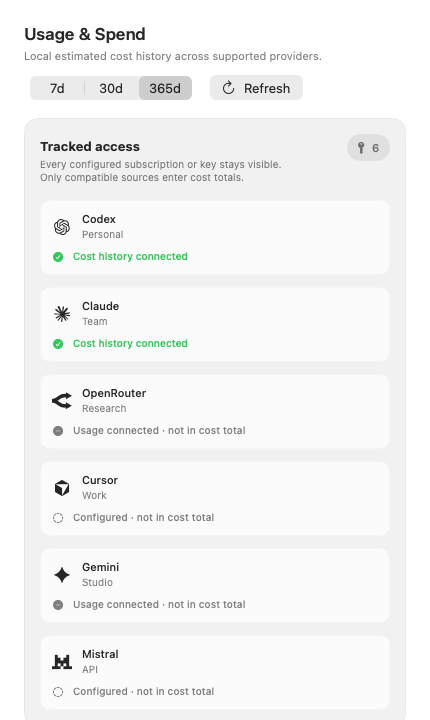
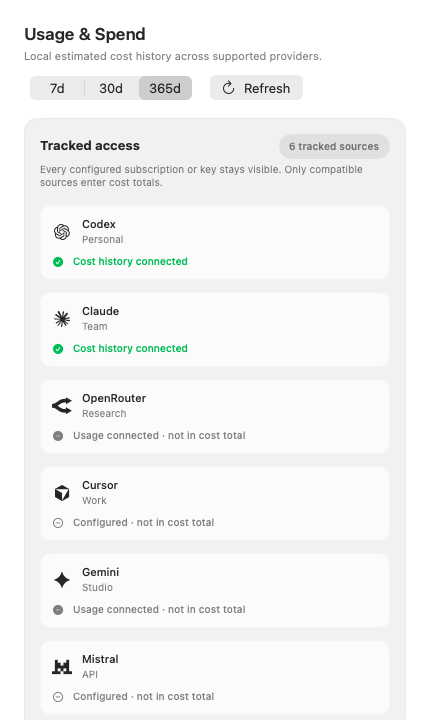
Clarify tracked access proof

diff --git a/Sources/CodexBar/PreferencesSpendDashboardPane.swift b/Sources/CodexBar/PreferencesSpendDashboardPane.swift
@@ -319,28 +319,26 @@ struct SpendTrackedAccessPanel: View {
     var body: some View {
         SpendDashboardPanel {
             VStack(alignment: .leading, spacing: 16) {
-                HStack(alignment: .firstTextBaseline, spacing: 16) {
-                    VStack(alignment: .leading, spacing: 4) {
+                VStack(alignment: .leading, spacing: 4) {
+                    HStack(alignment: .firstTextBaseline, spacing: 12) {
                         Text(L("Tracked access"))
                             .font(.headline)
-                        Text(self.description)
-                            .font(.caption)
+                        Spacer(minLength: 12)
+                        Text(
+                            "\(codexBarLocalizedInteger(self.sources.count)) " +
+                                L("tracked sources"))
+                            .font(.caption.monospacedDigit().weight(.semibold))
                             .foregroundStyle(.secondary)
-                            .fixedSize(horizontal: false, vertical: true)
+                            .padding(.horizontal, 10)
+                            .padding(.vertical, 6)
+                            .background(.quaternary.opacity(0.7), in: Capsule())
+                            .accessibilityLabel(
+                                "\(codexBarLocalizedInteger(self.sources.count)) \(L("tracked sources"))")
                     }
-                    Spacer(minLength: 12)
-                    HStack(spacing: 6) {
-                        Image(systemName: "key.fill")
-                            .font(.caption)
-                        Text(codexBarLocalizedInteger(self.sources.count))
-                            .font(.subheadline.monospacedDigit().weight(.semibold))
-                    }
-                    .foregroundStyle(.secondary)
-                    .padding(.horizontal, 10)
-                    .padding(.vertical, 6)
-                    .background(.quaternary.opacity(0.7), in: Capsule())
-                    .accessibilityLabel(
-                        "\(codexBarLocalizedInteger(self.sources.count)) \(L("tracked sources"))")
+                    Text(self.description)
+                        .font(.caption)
+                        .foregroundStyle(.secondary)
+                        .fixedSize(horizontal: false, vertical: true)
                 }
 
                 LazyVGrid(columns: self.columns, alignment: .leading, spacing: 12) {
@@ -396,7 +394,7 @@ private struct SpendTrackedSourceRow: View {
         if self.source.contributesCostHistory {
             return self.source.state == .connected ? "checkmark.circle.fill" : "clock.fill"
         }
-        return self.source.state == .connected ? "minus.circle.fill" : "circle.dashed"
+        return self.source.state == .connected ? "minus.circle.fill" : "minus.circle"
     }
 
     private var statusColor: Color {
